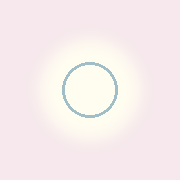
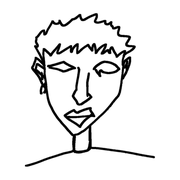
Icona: disegno a tratto nero su fondo bianco
Claude-Session: https://claude.ai/code/session_01FcjoPbGptXRUZfBE3R2bL1

Changed region(s): [[0.1389, 0.0556, 0.8611, 0.9444]]

diff --git a/index.html b/index.html
@@ -8,7 +8,7 @@
 <meta name="apple-mobile-web-app-title" content="Kawauchi">
 <meta name="theme-color" content="#000000">
 <link rel="manifest" href="manifest.webmanifest">
-<link rel="apple-touch-icon" href="icon-180.png">
+<link rel="apple-touch-icon" href="icon-180.png?v=2">
 <title>KawauchiCam</title>
 <style>
   :root { --fg: #fff; --dim: rgba(255,255,255,.65); --accent: #f4b8c8; }

diff --git a/sw.js b/sw.js
@@ -1,5 +1,5 @@
 // Cache minima: l'app si apre anche senza connessione.
-const CACHE = 'kawauchi-v1';
+const CACHE = 'kawauchi-v2';
 const FILES = ['./', 'index.html', 'manifest.webmanifest', 'icon-180.png', 'icon-512.png'];
 
 self.addEventListener('install', e => e.waitUntil(caches.open(CACHE).then(c => c.addAll(FILES))));
